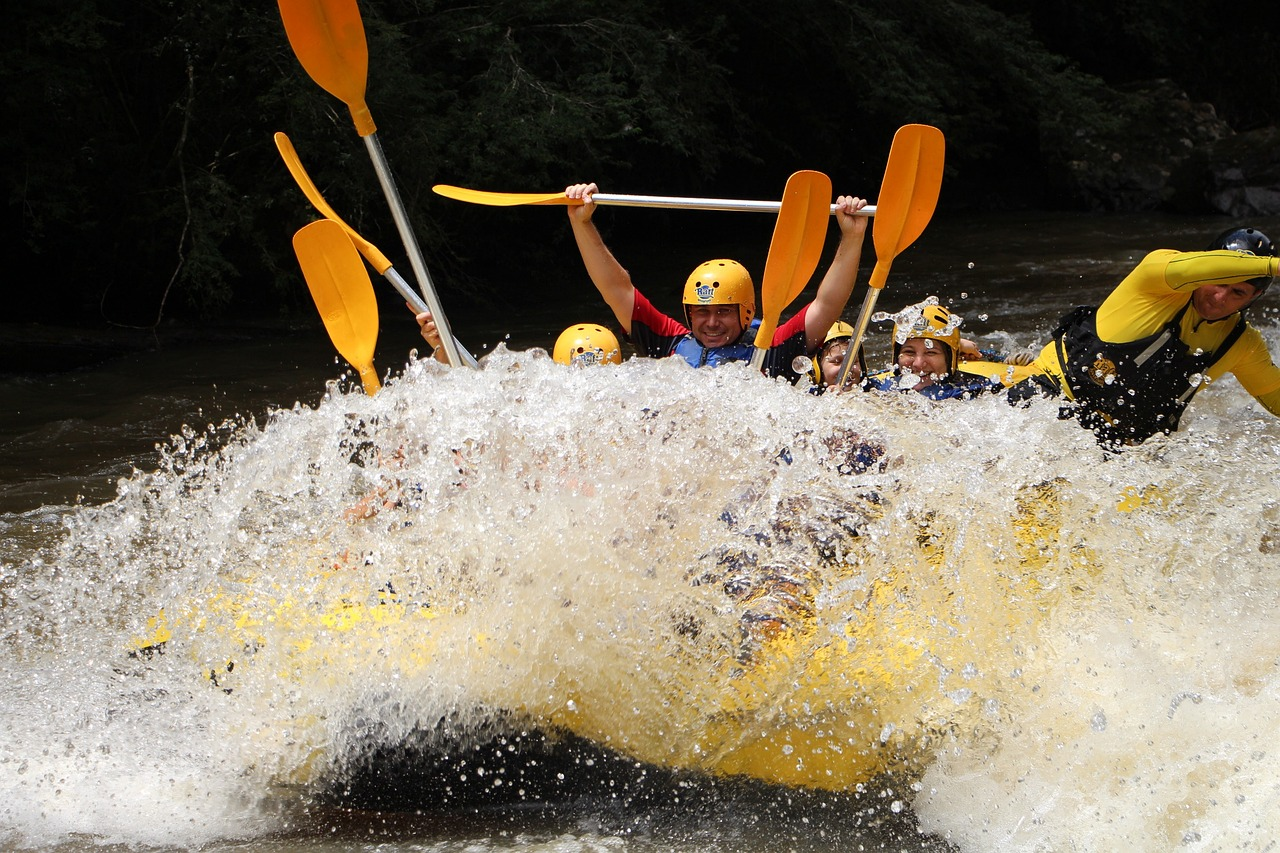
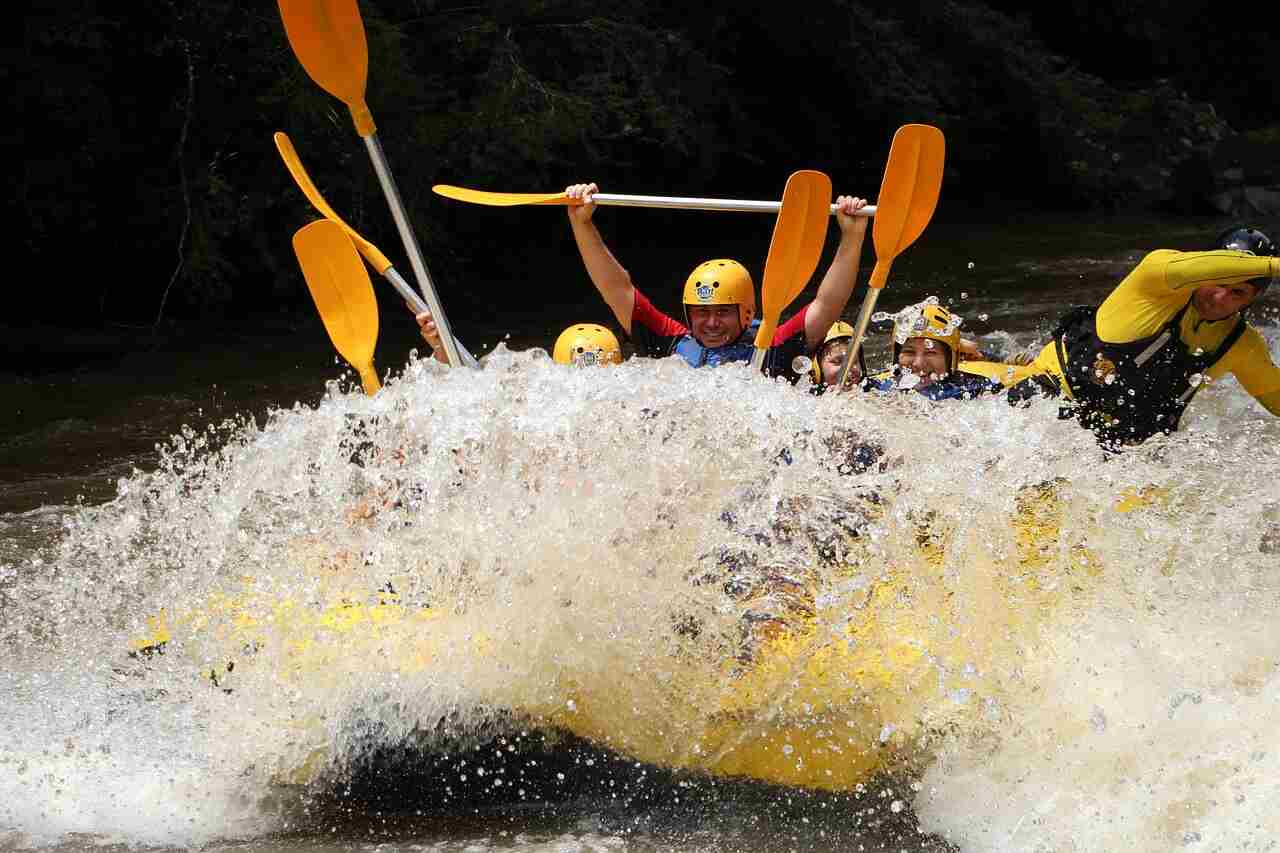
Updated/Compressed images and CSS file in wwr directory

diff --git a/wwr/styles/rafting.css b/wwr/styles/rafting.css
@@ -3,7 +3,7 @@
     --secondary-color: #0077b6;
     --accent1-color: #caf0f8;
     --accent2-color: #90e0ef;
-    --heading-font: 'Rock Salt', cursive;
+    --heading-font: 'Arial', 'Helvetica', sans-serif;
     --paragraph-font: 'Roboto', sans-serif;
     --nav-background-color: var(--accent1-color);
     --nav-link-color: var(--primary-color);
